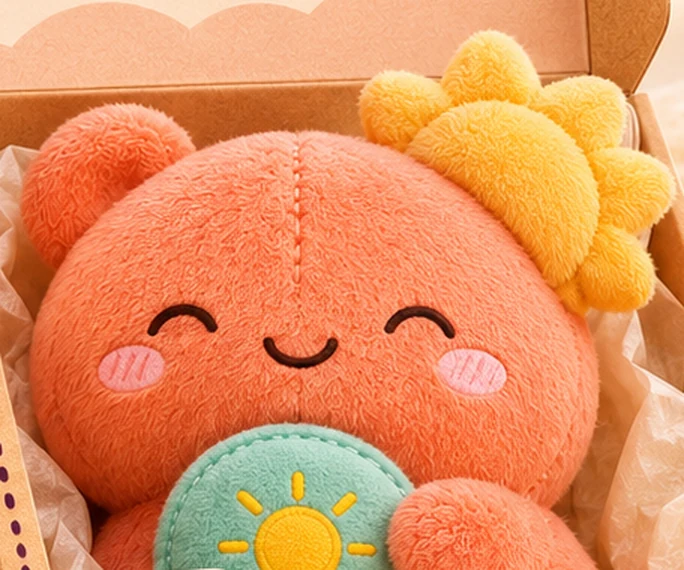
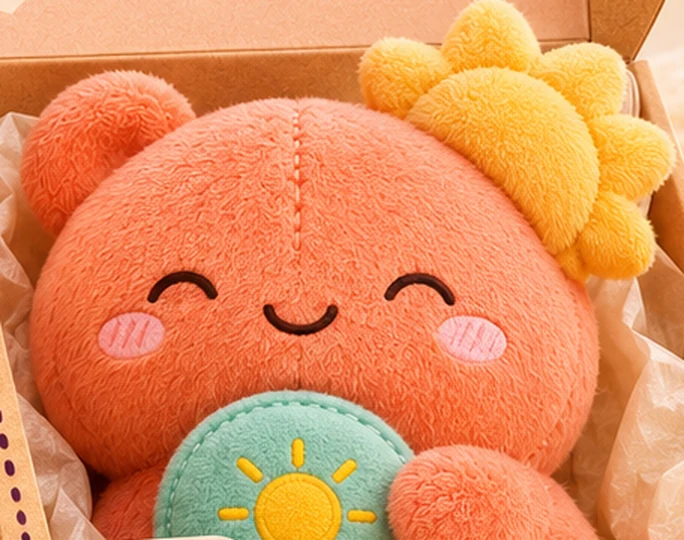
Twin cards: tighter crop without lid artwork
Claude-Session: https://claude.ai/code/session_015XLXi198UpJHd7a3MbX9Em

diff --git a/index.html b/index.html
@@ -91,7 +91,7 @@ nav .btn{min-height:44px;padding:0 18px;font-size:15px}
 .meet .head .lead{margin:16px auto 0}
 .meet .trio{display:grid;grid-template-columns:minmax(0,1.1fr) minmax(0,.6fr) minmax(0,1.1fr);gap:clamp(16px,2.4vw,32px);align-items:center}
 .twin{text-align:center;align-self:start}
-.twin img{border-radius:32px;aspect-ratio:6/5;object-fit:cover;width:100%;background:var(--cream)}
+.twin img{border-radius:32px;aspect-ratio:19/15;object-fit:cover;width:100%;background:var(--cream)}
 .twin h3{margin-top:22px;font-size:30px}
 .twin p{color:var(--soft);margin-top:6px}
 .twin .mark{display:inline-block;width:12px;height:12px;border-radius:50%;margin-right:8px;vertical-align:middle}
@@ -295,7 +295,7 @@ footer .wrap{grid-template-columns:minmax(0,1fr)}
     </div>
     <div class="trio">
       <div class="twin reveal">
-        <img src="img/tukki-moon.webp" alt="Tukki Moon, a coral plush with a cream crescent-moon ear, holding the left half of a mint heart with an embroidered moon" width="684" height="570" loading="lazy">
+        <img src="img/tukki-moon.webp" alt="Tukki Moon, a coral plush with a cream crescent-moon ear, holding the left half of a mint heart with an embroidered moon" width="684" height="540" loading="lazy">
         <h3><span class="mark" style="background:#fff4d6;border:2px solid #e9d8b8"></span>Tukki Moon</h3>
         <p>A little piece of love for someone far away.</p>
       </div>
@@ -305,7 +305,7 @@ footer .wrap{grid-template-columns:minmax(0,1fr)}
         <p>Put them side by side and the stitched halves line up into one full heart, the same heart on every pair.</p>
       </div>
       <div class="twin reveal">
-        <img src="img/tukki-sun.webp" alt="Tukki Sun, a coral plush with a honey-yellow sun ear, holding the right half of a mint heart with an embroidered sun" width="684" height="570" loading="lazy">
+        <img src="img/tukki-sun.webp" alt="Tukki Sun, a coral plush with a honey-yellow sun ear, holding the right half of a mint heart with an embroidered sun" width="684" height="540" loading="lazy">
         <h3><span class="mark" style="background:var(--honey)"></span>Tukki Sun</h3>
         <p>A little reminder that someone is always thinking of you.</p>
       </div>
